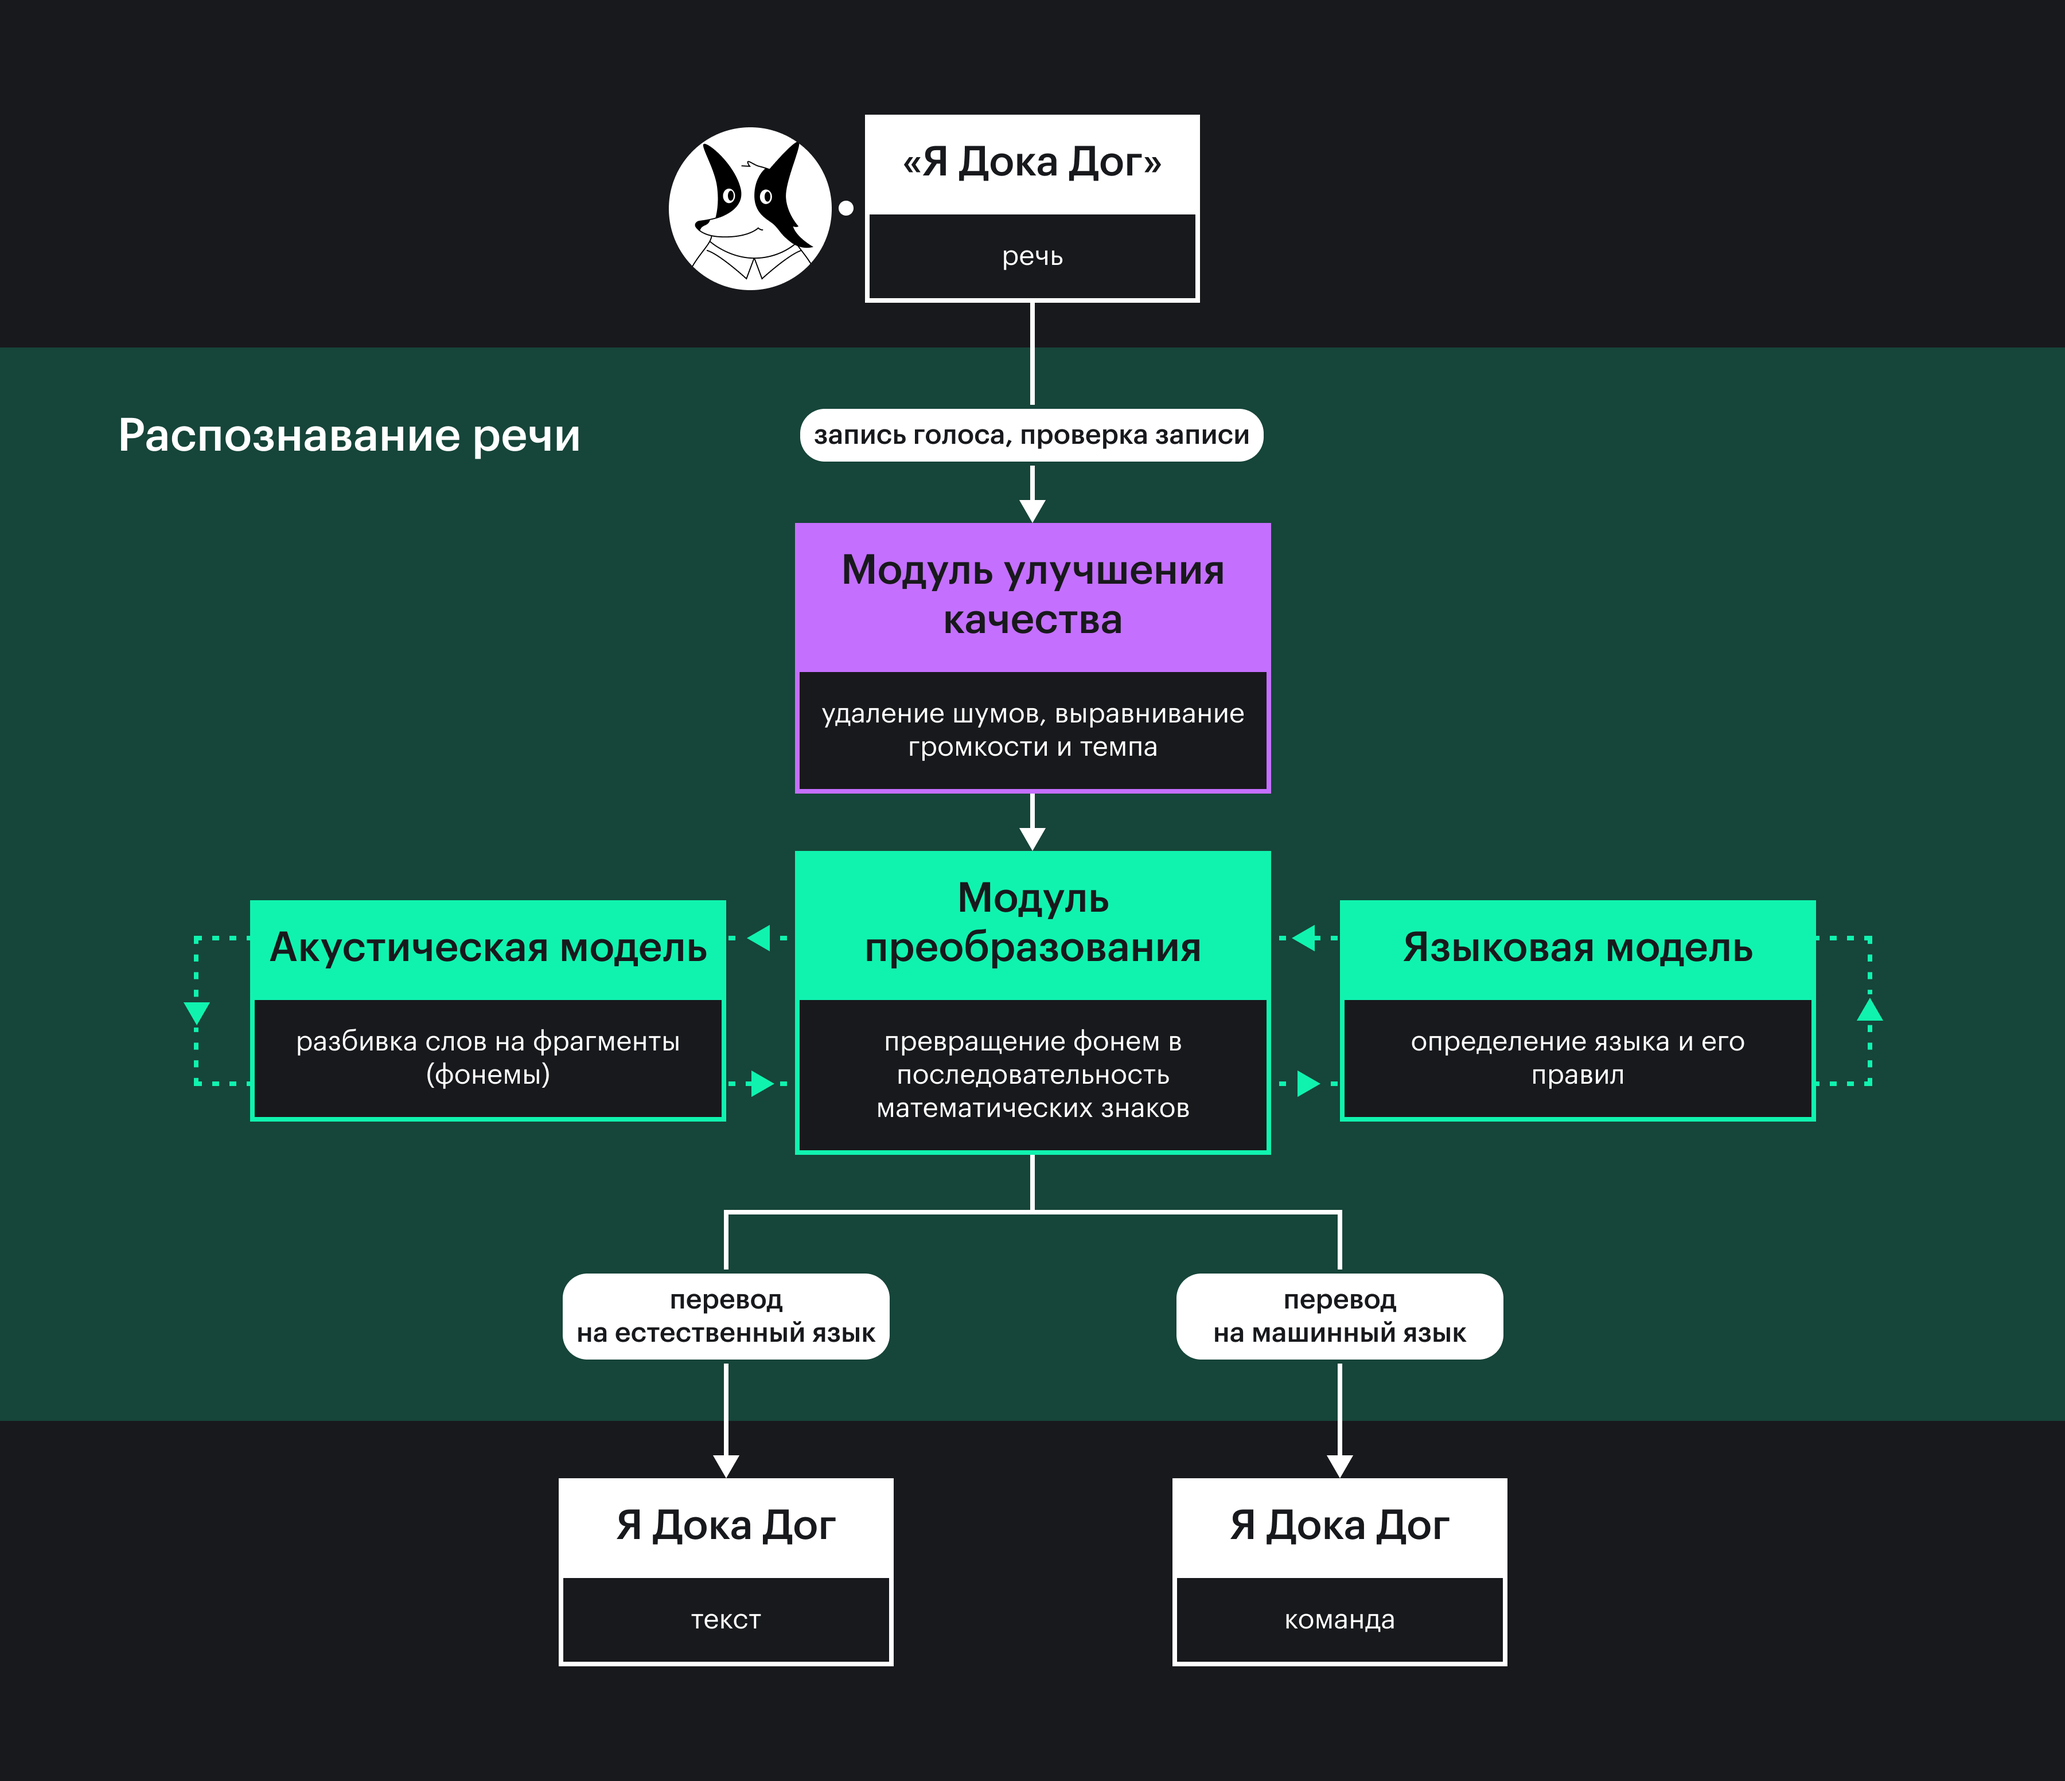
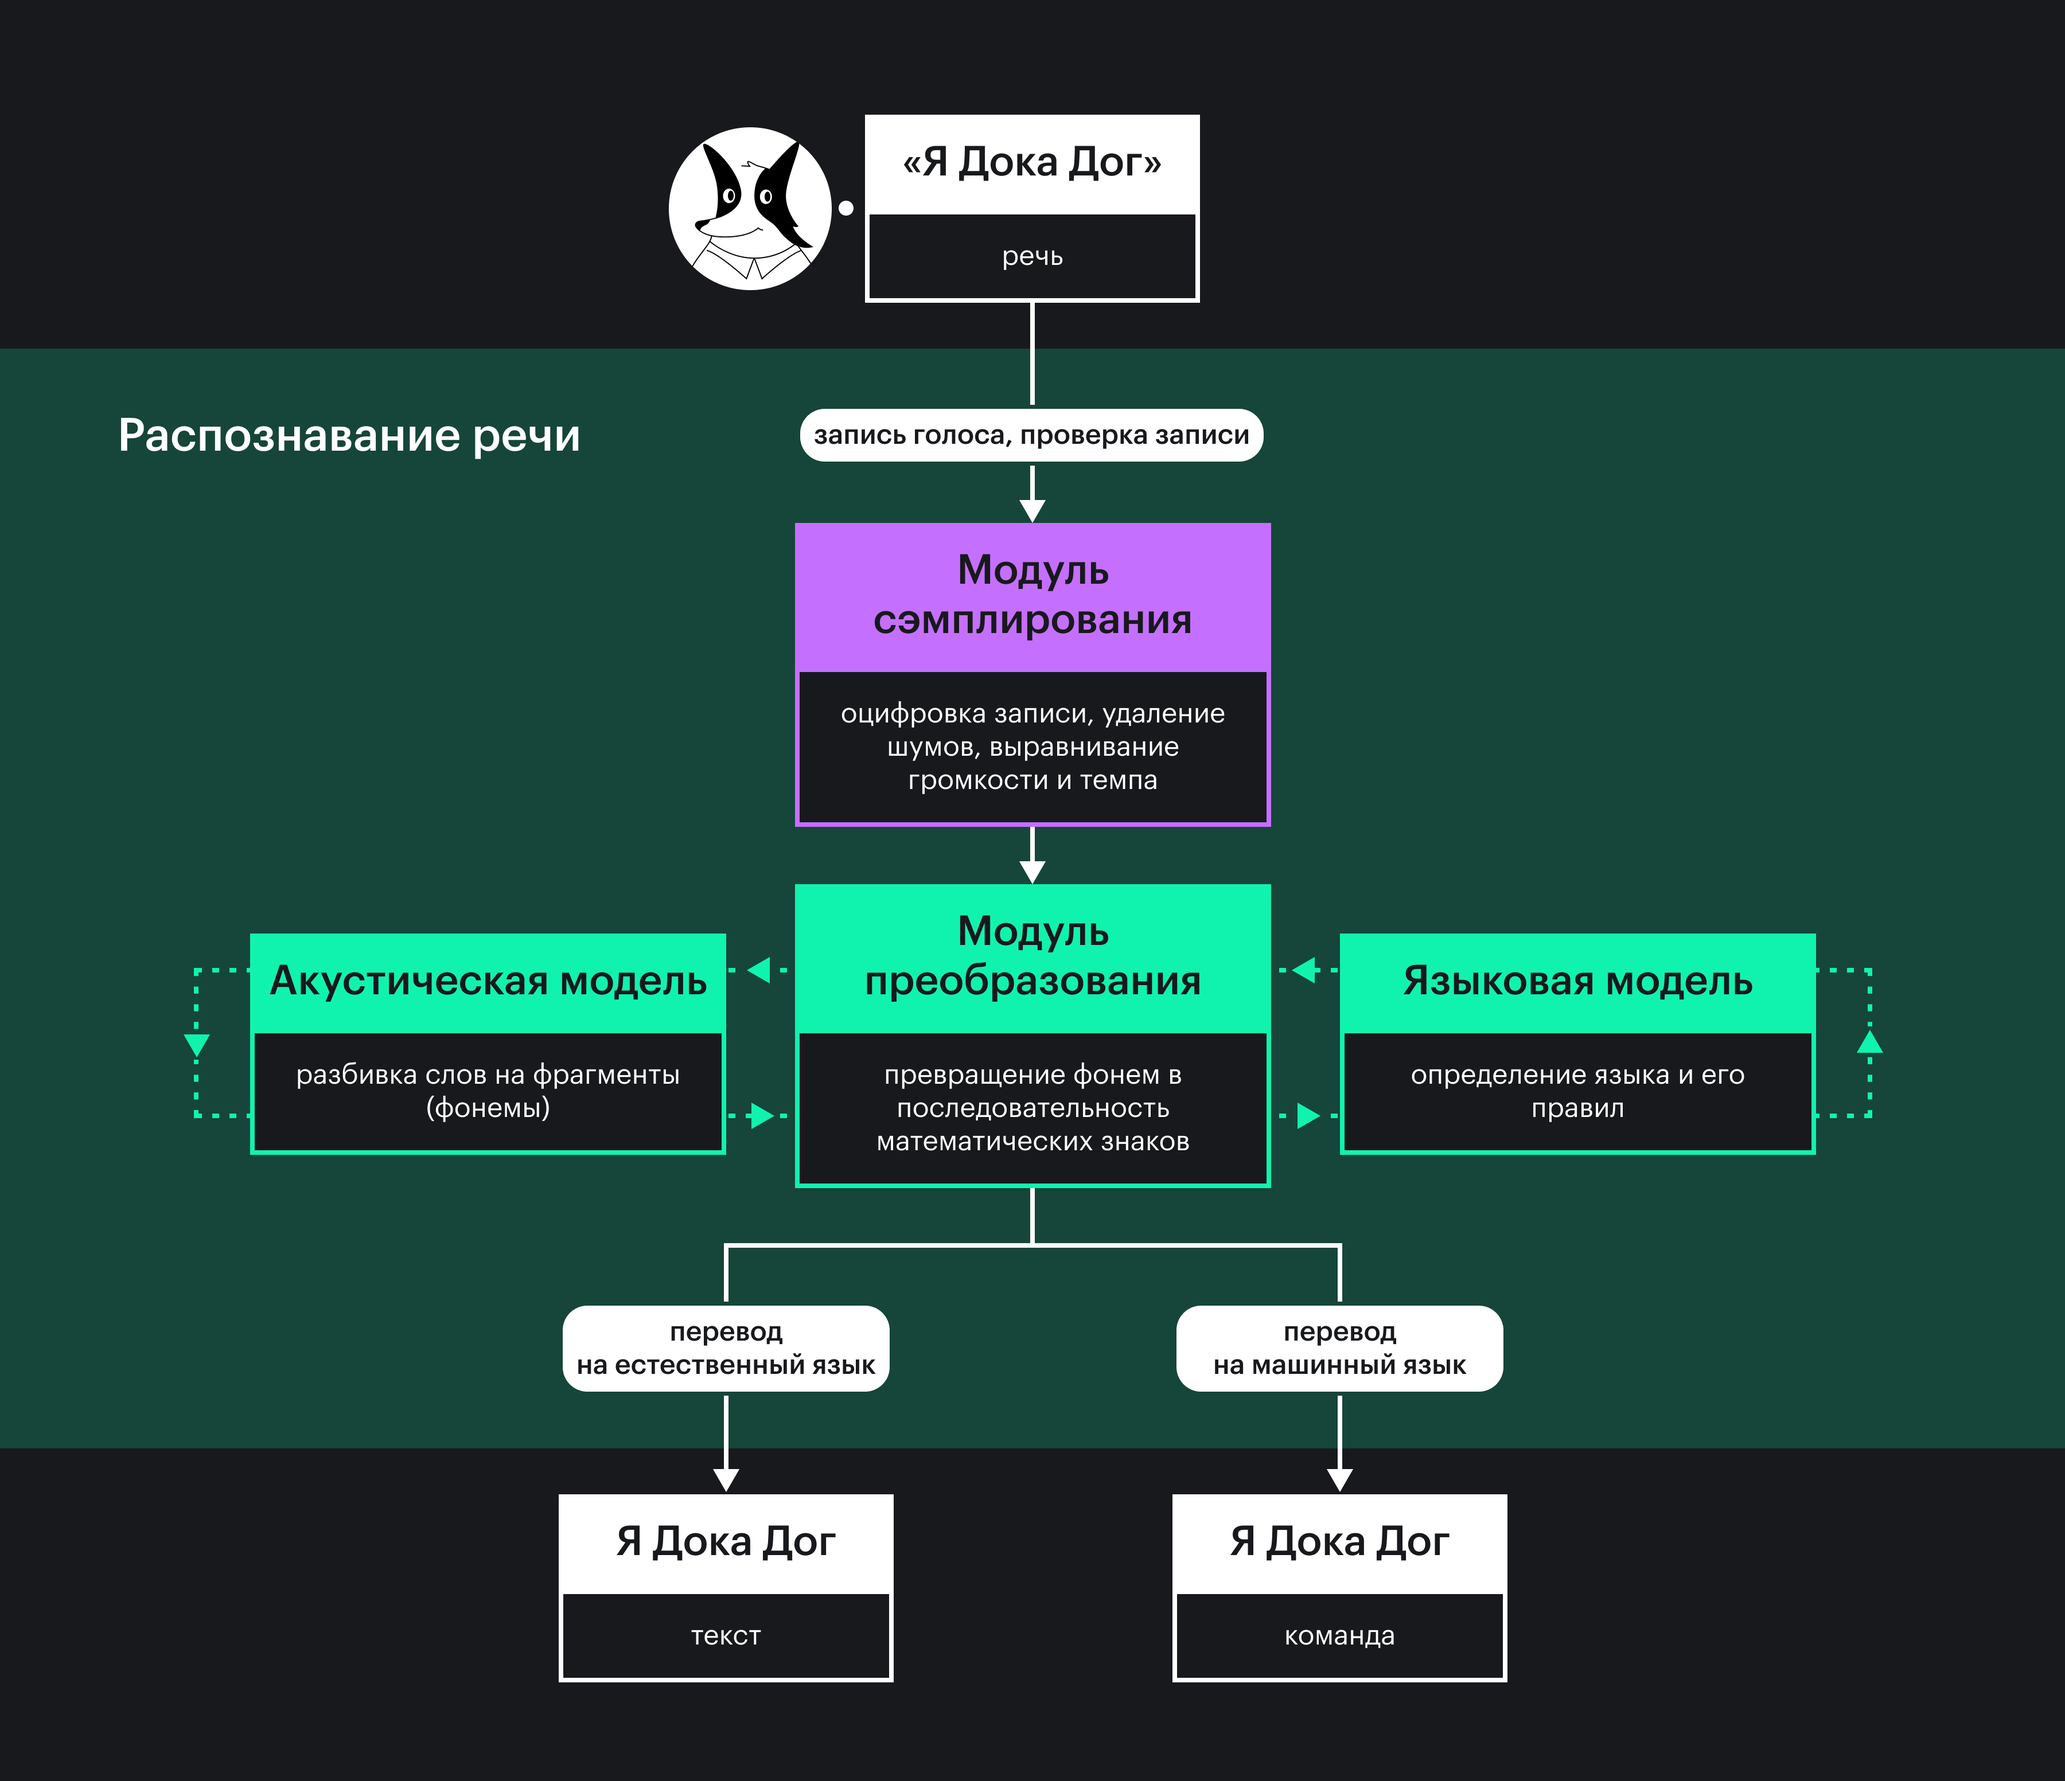
Вносит правкт, обновляет схему

Changed region(s): [[0.0, 0.3123, 1.0, 0.9369]]

diff --git a/a11y/speech-recognition/index.md b/a11y/speech-recognition/index.md
@@ -68,9 +68,11 @@ _Технологии распознавания речи (speech recognition te
 
 Теперь представим, что вы используете Dragon и управляете интерфейсом сайта голосом. Что именно происходит в этот момент?
 
-Сначала программа записывает ваш голос и находит посторонние звуки, помехи и искажения. После запись и информация о её качестве передаётся в модуль, который делает её менее шумной, выравнивает громкость, подстраивается под темп и другие особенности речи. На следующем этапе выделенные небольшие кусочки слов (фонемы) преобразуются в последовательность математических знаков, а ещё определяется язык, его правила. Данные о языке и его особенностях берутся из акустических и языковых моделей. На последнем шаге происходит главное — математические знаки становятся понятными командами для устройств или преобразуются в текст на естественном языке. Например, на английском, японском или норвежском.
+Сначала программа записывает ваш голос и находит посторонние звуки, помехи и искажения. После аналоговая запись и информация о её качестве передаётся в модуль, который её оцифровывает. Дополнительно он убирает шумы, выравнивает громкость, подстраивается под темп и другие особенности речи. На следующем этапе выделяются небольшие кусочки слов (фонемы), а ещё определяется язык и его правила. Данные о языке и его особенностях берутся из акустической и языковой моделей. На последнем шаге происходит главное — обработанная запись превращается в понятные команды для устройств или преобразуется в текст на естественном языке. Например, на английском, японском или норвежском.
 
 ![Процесс распознавания речи. Описание перед схемой.](images/speech-recognition.png)
+
+[Подробнее о технологии на сайте IBM](https://www.ibm.com/topics/speech-recognition) 🔗
 
 Программы и приложения для распознавания речи не всегда понимают, что говорит человек. Например, из-за сильного акцента, заикания и других особенностей произношения. Чтобы решить эту проблему, технологические компании объединили усилия в проекте [Speech Accessibility Project](https://speechaccessibilityproject.beckman.illinois.edu). Его цель — собрать как можно больше образцов речи людей с разными особенностями и научить акустические и языковые модели понимать их. То есть сделать их персонализированными.
 
